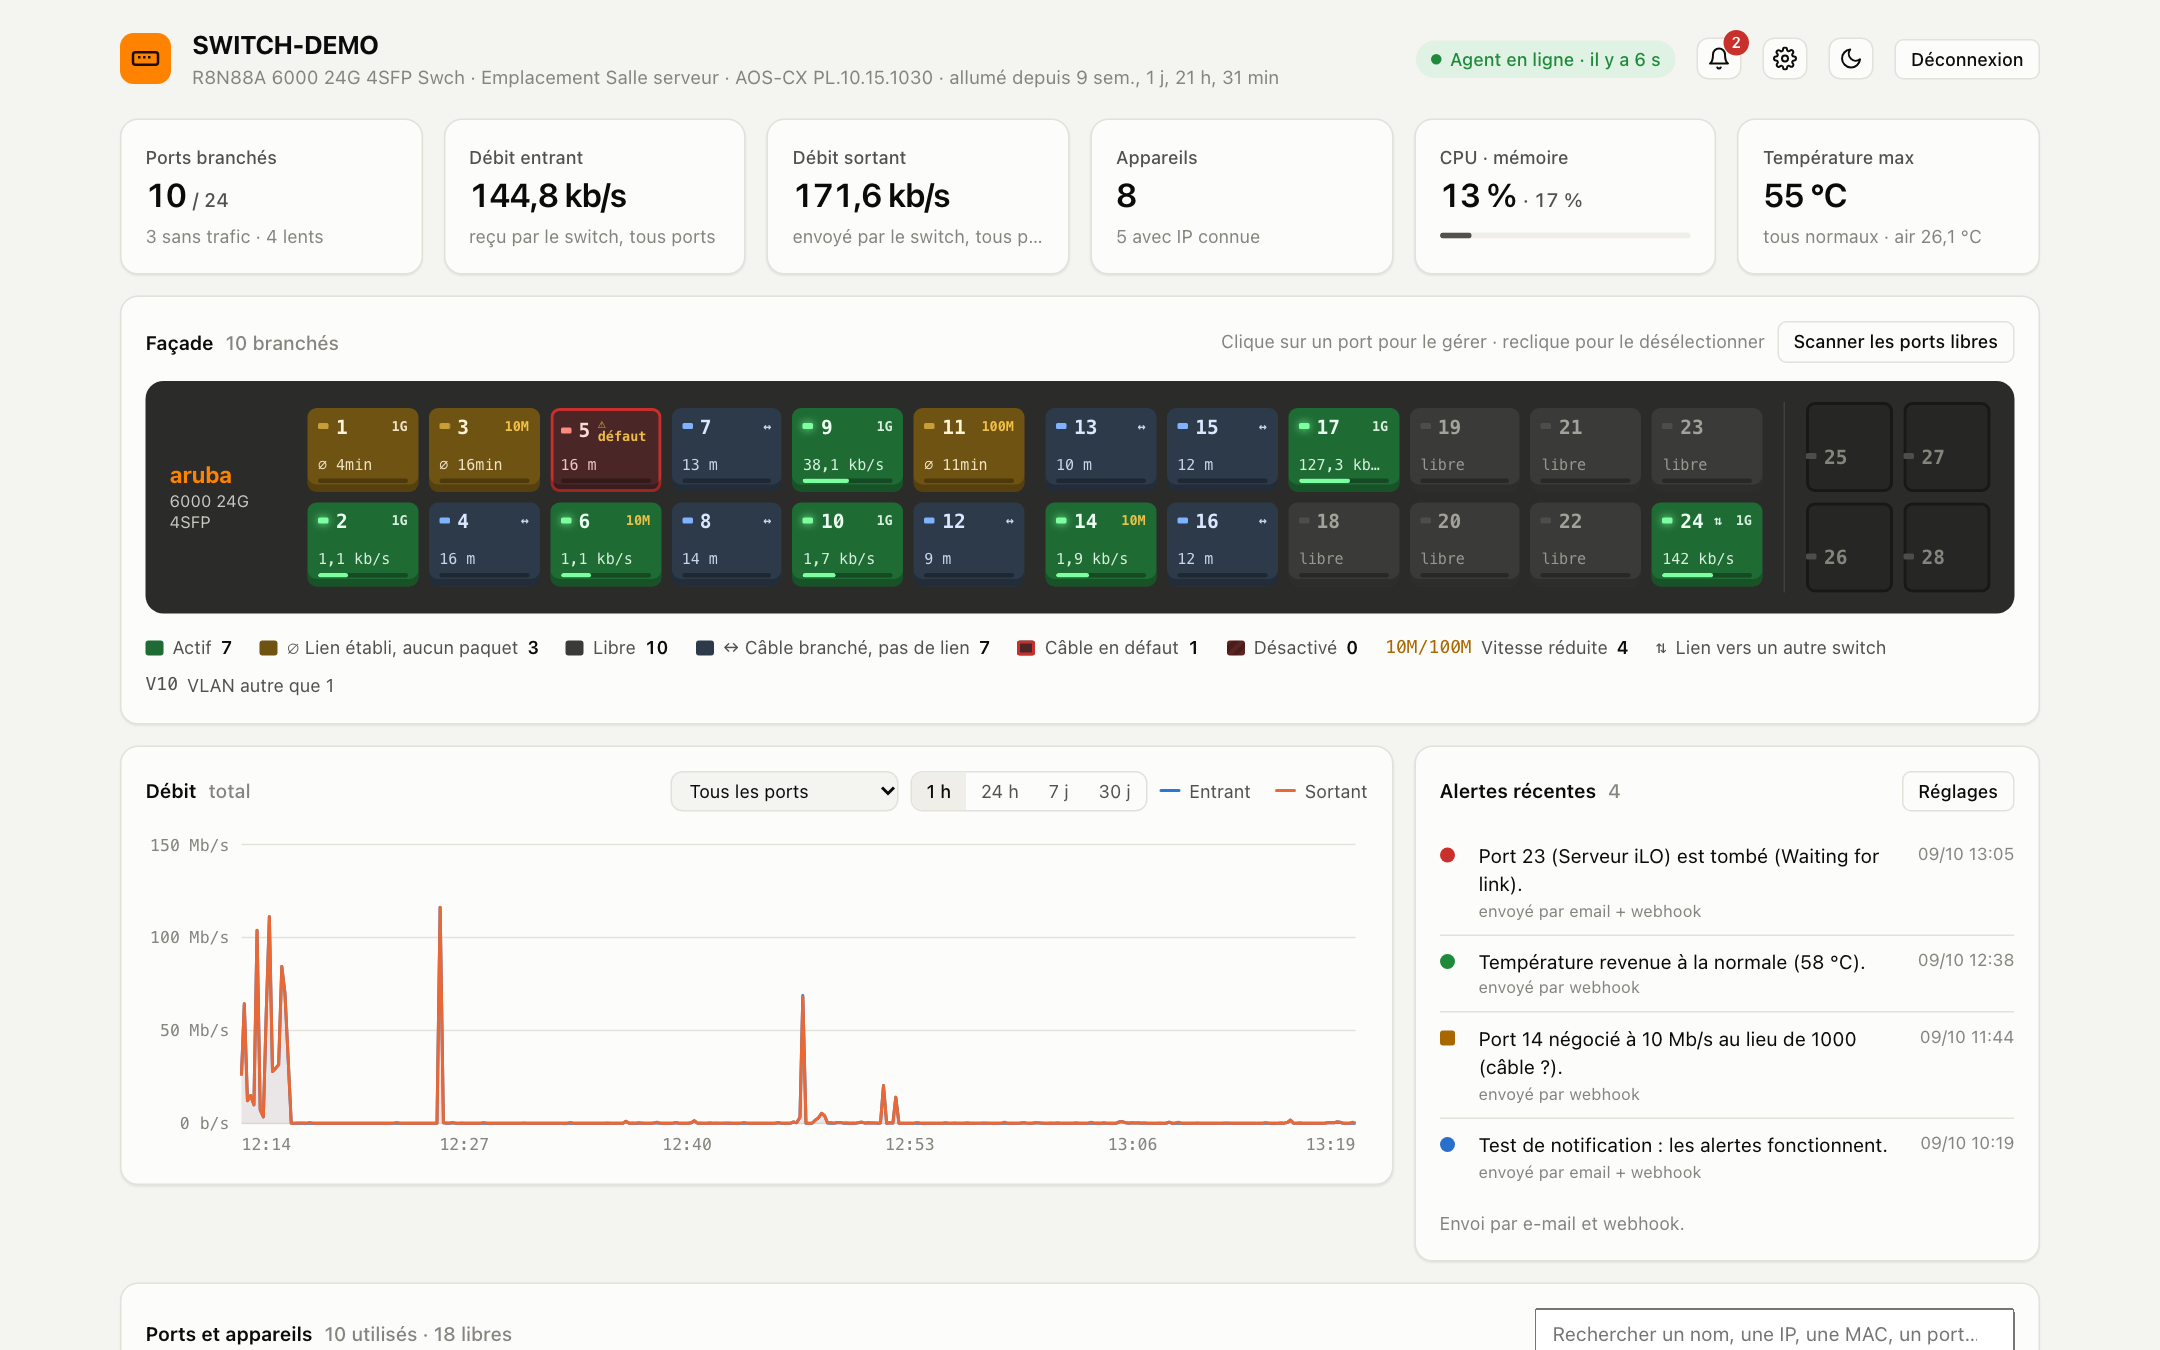
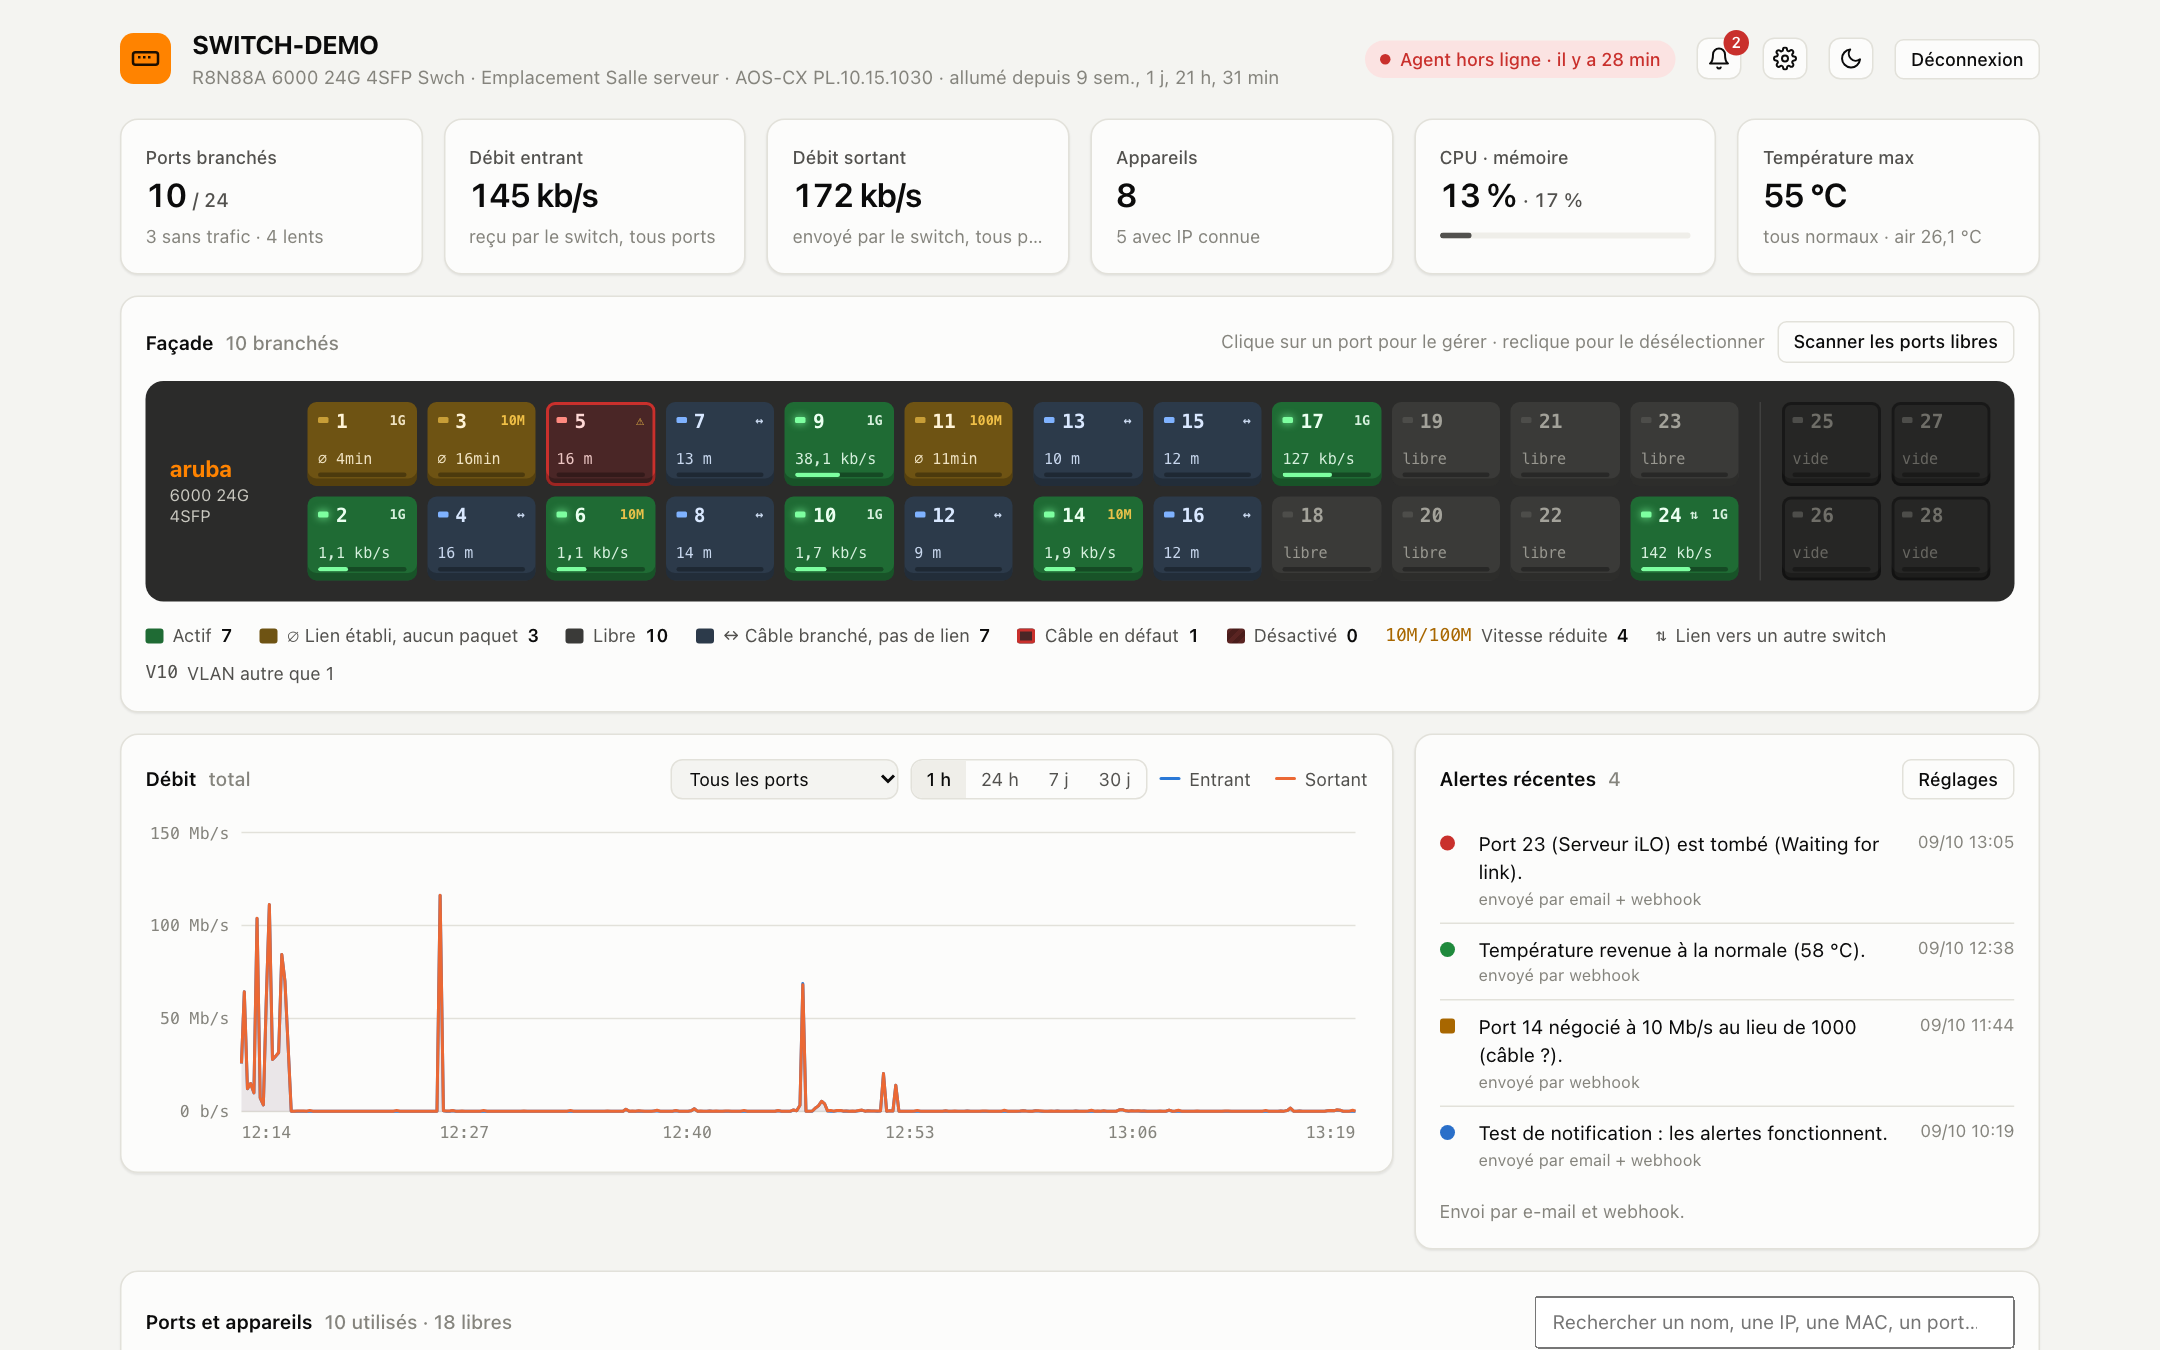
Façade : ports SFP alignés (vide, module, actif), libellés plus courts, charge du lien
- les ports 25 à 28 ont la même structure et la même hauteur que les ports cuivre
- conflit de classe CSS corrigé (« empty » renommée « nomod »)
- étiquette « ⚠ » pour un câble en défaut, débits sans décimale au-delà de 100
- charge du lien en pourcentage dans l'infobulle et le panneau du port
- captures du README régénérées

diff --git a/public/index.html b/public/index.html
@@ -162,7 +162,7 @@ dialog.wide { width: min(580px, calc(100% - 32px)); }
 .fp-brand { color: var(--faceplate-ink); font-size: 11px; line-height: 1.35; }
 .fp-brand b { color: var(--accent); display: block; font-size: 15px; letter-spacing: -.01em; }
 .fp-group { display: grid; grid-template-rows: auto auto; grid-auto-flow: column; grid-auto-columns: minmax(0, 1fr); gap: 7px; }
-.fp-sfp { grid-auto-columns: 58px; padding-left: 14px; border-left: 1px solid #ffffff1a; }
+.fp-sfp { grid-auto-columns: 66px; padding-left: 14px; border-left: 1px solid #ffffff1a; }
 .jack {
   --c: #3a3a38; --led: #4d4d4a; --ink: #a3a29a;
   position: relative; height: 56px; min-width: 0; border-radius: 6px; border: 0; padding: 6px 7px;
@@ -187,8 +187,8 @@ dialog.wide { width: min(580px, calc(100% - 32px)); }
 .jack.off { --led: #ff6b66; --ink: #ffb3b0; background: repeating-linear-gradient(135deg, #5a2422 0 5px, #4a1d1b 5px 10px); }
 .jack.cable { --c: #2c3a4a; --led: #7fb2ff; --ink: #d9e8ff; }
 .jack.fault { --c: #4a2626; --led: #ff8a80; --ink: #ffd9d6; box-shadow: inset 0 -5px 0 rgb(0 0 0 / .22), inset 0 0 0 2px #c9302c; }
-.jack.sfp { height: 44px; box-shadow: inset 0 0 0 2px rgb(0 0 0 / .35); }
-.jack.empty { --c: #262625; --ink: #6f6e68; }
+.jack.sfp { box-shadow: inset 0 0 0 2px rgb(0 0 0 / .35), inset 0 -5px 0 rgb(0 0 0 / .22); }
+.jack.nomod { --c: #262625; --ink: #6f6e68; }
 .jack .slow { color: #ffcc4d; }
 .jack.sel { outline: 2px solid var(--accent); outline-offset: 2px; }
 .jack.busy::after { content: ""; position: absolute; top: 6px; right: 6px; width: 9px; height: 9px; border-radius: 50%; border: 2px solid #fff; border-right-color: transparent; animation: spin .7s linear infinite; }
@@ -474,13 +474,13 @@ function fmtBps(v) {
   if (v == null) return '-';
   const u = ['b/s', 'kb/s', 'Mb/s', 'Gb/s']; let i = 0;
   while (v >= 1000 && i < u.length - 1) { v /= 1000; i++; }
-  return `${(i ? nf : nf0).format(v)} ${u[i]}`;
+  return `${(i && v < 100 ? nf : nf0).format(v)} ${u[i]}`;
 }
 function fmtBytes(v) {
   if (v == null) return '-';
   const u = ['o', 'Ko', 'Mo', 'Go', 'To']; let i = 0;
   while (v >= 1000 && i < u.length - 1) { v /= 1000; i++; }
-  return `${(i ? nf : nf0).format(v)} ${u[i]}`;
+  return `${(i && v < 100 ? nf : nf0).format(v)} ${u[i]}`;
 }
 const durShort = (s) => (s < 3600 ? `${Math.max(1, Math.round(s / 60))}min` : `${Math.round(s / 3600)}h`);
 const fmtDur = (s) => (s < 60 ? `${Math.round(s)} s` : s < 3600 ? `${Math.round(s / 60)} min` : `${nf.format(s / 3600)} h`);
@@ -495,6 +495,8 @@ const quietFor = (p) => (p.up && p.rx_quiet_since ? Math.max(0, (S.updated || NO
 const pState = (p) => (!p.enabled ? 'off' : !p.up ? 'down' : quietFor(p) >= IDLE_AFTER ? 'idle' : 'up');
 const pLabel = { up: 'Actif', idle: 'Sans trafic', down: 'Libre', off: 'Désactivé' };
 const isSlow = (p) => p.up && p.type === '1GbT' && Number(p.speed) > 0 && Number(p.speed) < 1000;
+const loadPct = (bps, p) => (p.up && Number(p.speed) > 0 && bps != null ? (bps / (Number(p.speed) * 1e6)) * 100 : null);
+const fmtPct = (x) => (x == null ? '-' : x < 0.1 ? '< 0,1 %' : `${nf.format(x)} %`);
 const speedTag = (s) => (s >= 1000 ? `${s / 1000}G` : `${s}M`);
 const isUplink = (p) => p.uplink ?? (S.lldp || []).some((l) => l.port === p.port && l.name && /\d{4}|aruba|switch/i.test(l.name));
 const pendingFor = (port) => LOG.some((c) => ['pending', 'running', 'confirm'].includes(c.status) && (c.ports || []).includes(port));
@@ -676,14 +678,14 @@ function renderFaceplate() {
       : st === 'idle' ? `∅ ${durShort(quietFor(p))}` : fmtBps(bps).replace(' ', ' ');
     const tip = [`Port ${n}`, pLabel[st], p.speed && `${p.speed} Mb/s${slow ? ' (lent)' : ''}`, up && 'lien vers un autre switch',
       p.vlan !== '1' && `VLAN ${p.vlan}`, st === 'idle' && `aucun paquet reçu depuis ${fmtDur(quietFor(p))}`,
-      cab && { empty: 'test câble : rien de branché', open: `test câble : câble ${cab.len} m, rien au bout`, good: `test câble : câble ${cab.len} m en bon état, appareil éteint`, fault: `test câble : DÉFAUT vers ${cab.len} m` }[cab.kind], st === 'up' && fmtBps(bps), p.desc].filter(Boolean).join(' · ');
-    const cls = ['jack', sfp && 'sfp', empty ? 'empty' : cabCls || st, selected === p.port && 'sel', pendingFor(p.port) && 'busy'].filter(Boolean).join(' ');
-    const tags = (cabCls ? `<span class="tag${cabCls === 'fault' ? ' slow' : ''}">${cabCls === 'fault' ? '⚠ défaut' : cab.kind === 'good' ? '↔ ok' : '↔'}</span>` : '')
+      cab && { empty: 'test câble : rien de branché', open: `test câble : câble ${cab.len} m, rien au bout`, good: `test câble : câble ${cab.len} m en bon état, appareil éteint`, fault: `test câble : DÉFAUT vers ${cab.len} m` }[cab.kind], st === 'up' && `${fmtBps(bps)} (charge ${fmtPct(loadPct(Math.max(p.rx_bps || 0, p.tx_bps || 0), p))})`, p.desc].filter(Boolean).join(' · ');
+    const cls = ['jack', sfp && 'sfp', empty ? 'nomod' : cabCls || st, selected === p.port && 'sel', pendingFor(p.port) && 'busy'].filter(Boolean).join(' ');
+    const tags = (cabCls ? `<span class="tag${cabCls === 'fault' ? ' slow' : ''}">${cabCls === 'fault' ? '⚠' : cab.kind === 'good' ? '↔ ok' : '↔'}</span>` : '')
       + (up ? '<span class="tag">⇅</span>' : '') + (p.vlan !== '1' ? `<span class="tag">V${esc(p.vlan)}</span>` : '')
-      + (p.up && p.speed && !sfp ? `<span class="tag${slow ? ' slow' : ''}">${speedTag(Number(p.speed))}</span>` : '');
+      + (p.up && p.speed ? `<span class="tag${slow ? ' slow' : ''}">${speedTag(Number(p.speed))}</span>` : '');
     return `<button class="${cls}" data-port="${esc(p.port)}" title="${esc(tip)}" aria-label="${esc(tip)}" aria-pressed="${selected === p.port}">
       <span class="top"><span class="led"></span><span class="n">${n}</span>${tags}</span>
-      ${sfp ? `<span class="meta">${esc(meta)}</span>` : `<span><span class="meta">${esc(meta)}</span><span class="meter"><i style="width:${st === 'up' ? meterPct(bps) : 0}%"></i></span></span>`}
+      <span><span class="meta">${esc(meta)}</span><span class="meter"><i style="width:${st === 'up' ? meterPct(bps) : 0}%"></i></span></span>
     </button>`;
   };
   let html = `<div class="fp-brand"><b>aruba</b>${esc((S.model || '').replace(/^\S+\s/, '').replace(/\s*Swch$/, ''))}</div>`;
@@ -973,6 +975,7 @@ function renderPanel(force) {
       <dt>Vitesse</dt><dd class="num">${p.speed ? esc(p.speed) + ' Mb/s' : '-'}</dd>
       <dt>État détaillé</dt><dd>${esc(p.reason || (p.up ? 'Lien établi' : '-'))}</dd>
       <dt>Débit ↓ / ↑</dt><dd class="num">${fmtBps(p.rx_bps)} / ${fmtBps(p.tx_bps)}</dd>
+      <dt>Charge du lien ↓ / ↑</dt><dd class="num">${fmtPct(loadPct(p.rx_bps, p))} / ${fmtPct(loadPct(p.tx_bps, p))}</dd>
       <dt>Total ↓ / ↑</dt><dd class="num">${fmtBytes(p.rx_bytes)} / ${fmtBytes(p.tx_bytes)}</dd>
       <dt>Erreurs · CRC</dt><dd class="num">${nf0.format((p.rx_errors || 0) + (p.tx_errors || 0))} · ${nf0.format(p.crc || 0)}</dd>
       <dt>Pertes ↓ / ↑</dt><dd class="num">${nf0.format(p.rx_drops || 0)} / ${nf0.format(p.tx_drops || 0)}</dd>
